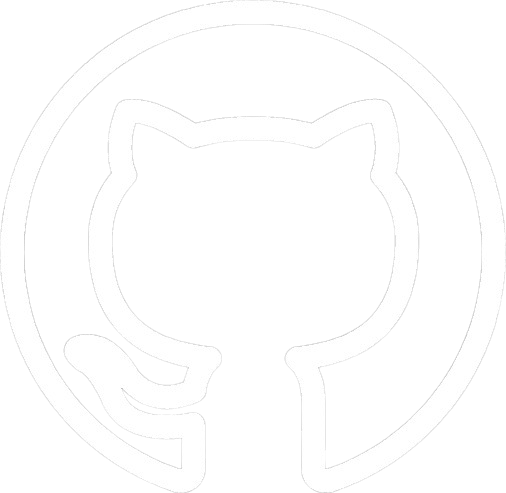
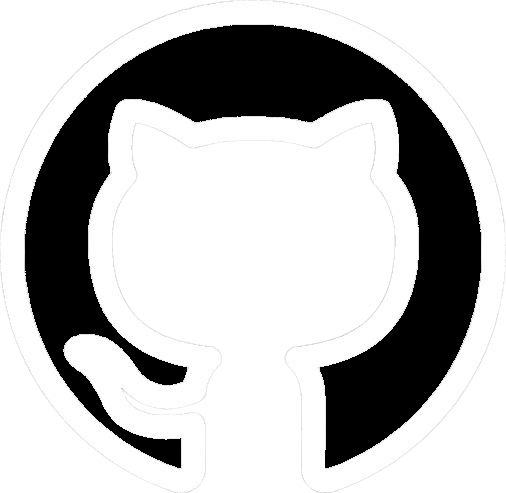
update images for github

Changed region(s): [[0.0296, 0.0304, 0.9486, 0.9432]]

diff --git a/src/Navbar/Navbar.js b/src/Navbar/Navbar.js
@@ -43,7 +43,9 @@ export default function Navbar({ nightMode, toggleNightMode }) {
               Resume
             </div>
             <img
-              className={`imgLinks imgGithub ${nightMode && "imgLinksNight"}`}
+              className={`imgLinks imgGithub ${
+                nightMode && "imgLinksNight imgGithubNight"
+              }`}
               src={!nightMode ? githubImg : githubNightImg}
               alt="Github"
               onClick={() =>

diff --git a/src/Navbar/Navbar.css b/src/Navbar/Navbar.css
@@ -54,7 +54,7 @@
 
 .imgGithub:hover {
     border-radius: 100%;
-    background-color: #8d8d8d;
+    background-color: #121212;
 }
 
 .imgLinkedin {
@@ -67,6 +67,11 @@
 
 .imgLinkedinNight:hover {
     background-color: whitesmoke;
+}
+
+.imgGithubNight:hover {
+    border-radius: 100%;
+    background-color: white;
 }
 
 .navbar-content {

diff --git a/src/Navbar/Components/NavbarDropdown/NavbarDropdown.css b/src/Navbar/Components/NavbarDropdown/NavbarDropdown.css
@@ -33,6 +33,6 @@
     border-radius: 5px;
 }
 .navBarPara:hover {
-    background-color: gray;
+    background-color: #121212;
 }
   
